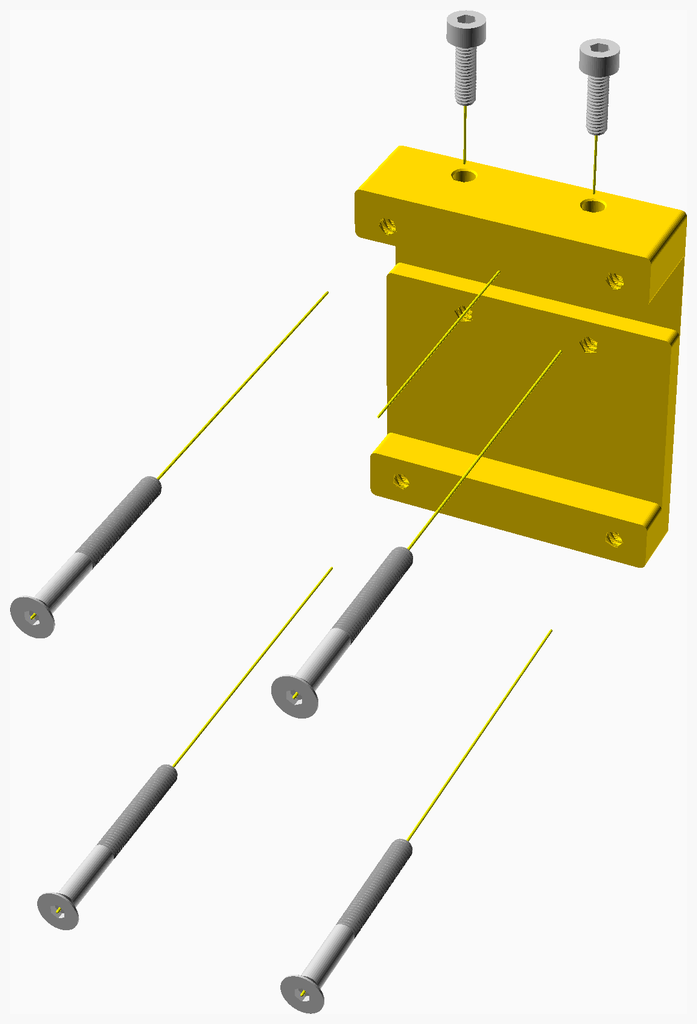
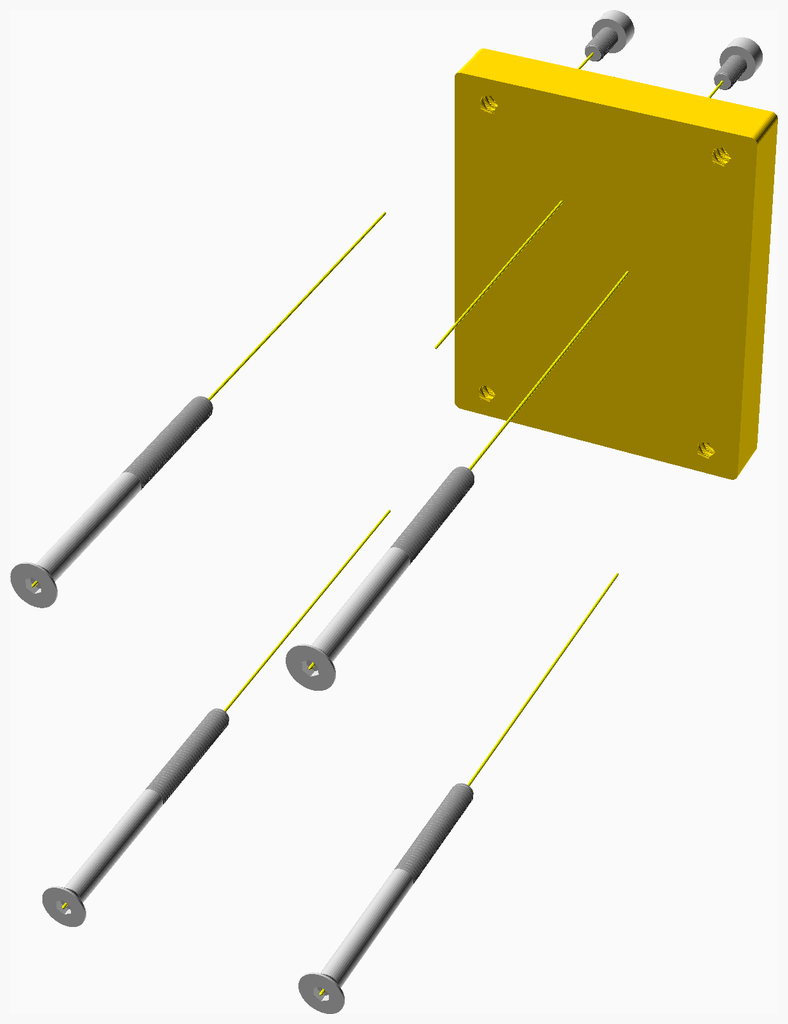
XChange update after build.

diff --git a/XChange/readme.md b/XChange/readme.md
@@ -26,16 +26,15 @@ MaybeCube supports the
 ## Parts list
 
 
-| <span style="writing-mode: vertical-rl; text-orientation: mixed;">TOTALS</span> |  |
-|------:|:---|
-|       | **Vitamins** |
-|    2  |  Bolt M3 caphead x  6mm |
-|    2  |  Bolt M3 caphead x 10mm |
-|    4  |  Bolt M3 countersunk x 30mm |
-|    0  | Total vitamins count |
-|       | **3D printed parts** |
-|    1  | X_Carriage_XChange.stl |
-|    0  | Total 3D printed parts count |
+| <span style="writing-mode: vertical-rl; text-orientation: mixed;">X Carriage XChange</span> | <span style="writing-mode: vertical-rl; text-orientation: mixed;">TOTALS</span> |  |
+|-----:|------:|:---|
+|      |       | **Vitamins** |
+|   4  |    4  |  Bolt M3 caphead x  6mm |
+|   4  |    4  |  Bolt M3 countersunk x 40mm |
+|   8  |    8  | Total vitamins count |
+|      |       | **3D printed parts** |
+|   1  |    1  | X_Carriage_XChange_16.stl |
+|   1  |    1  | Total 3D printed parts count |
 
 <span></span>
 [Top](#TOP)
@@ -49,16 +48,15 @@ MaybeCube supports the
 
 |Qty|Description|
 |---:|:----------|
-|2| Bolt M3 caphead x  6mm|
-|2| Bolt M3 caphead x 10mm|
-|4| Bolt M3 countersunk x 30mm|
+|4| Bolt M3 caphead x  6mm|
+|4| Bolt M3 countersunk x 40mm|
 
 
 ### 3D Printed parts
 
-| 1 x X_Carriage_XChange.stl |
+| 1 x X_Carriage_XChange_16.stl |
 |---|
-| ![X_Carriage_XChange.stl](stls/X_Carriage_XChange.png) 
+| ![X_Carriage_XChange_16.stl](stls/X_Carriage_XChange_16.png) 
 
 
 
